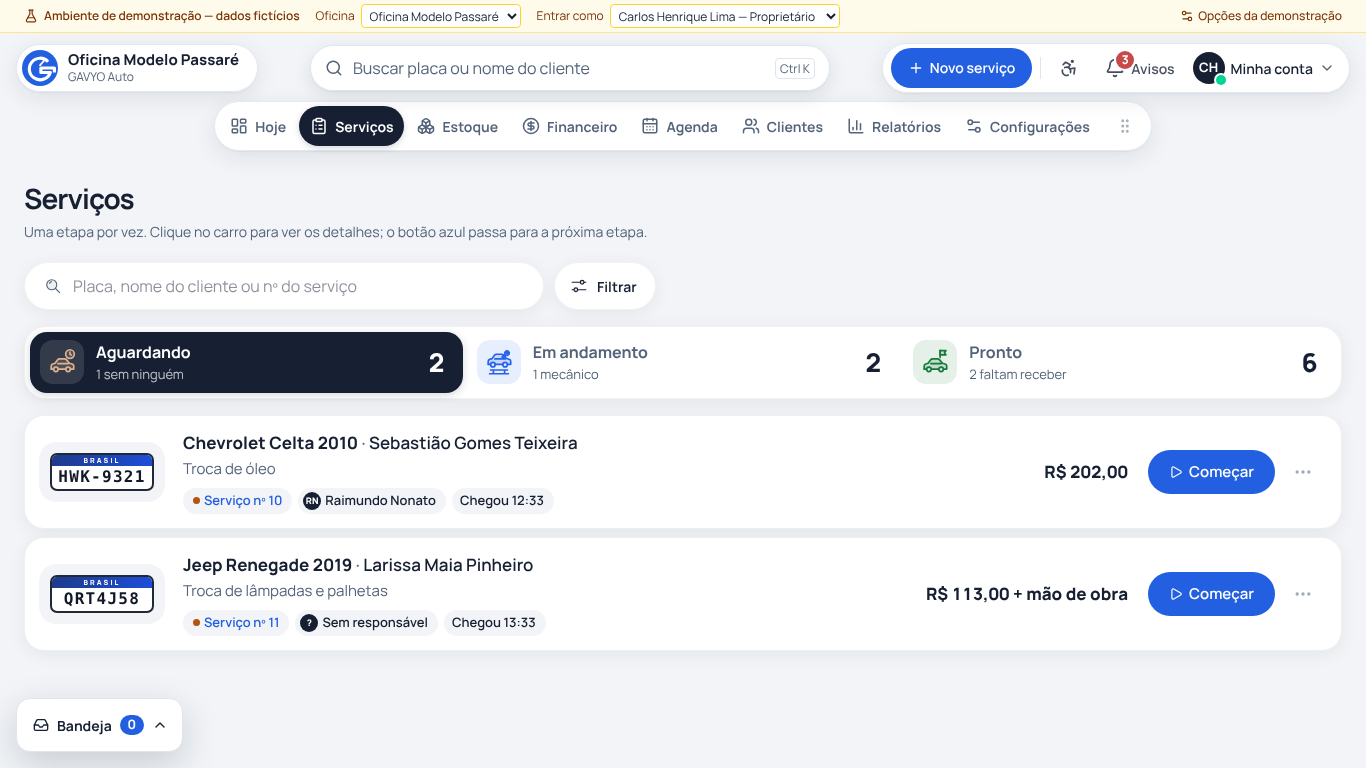
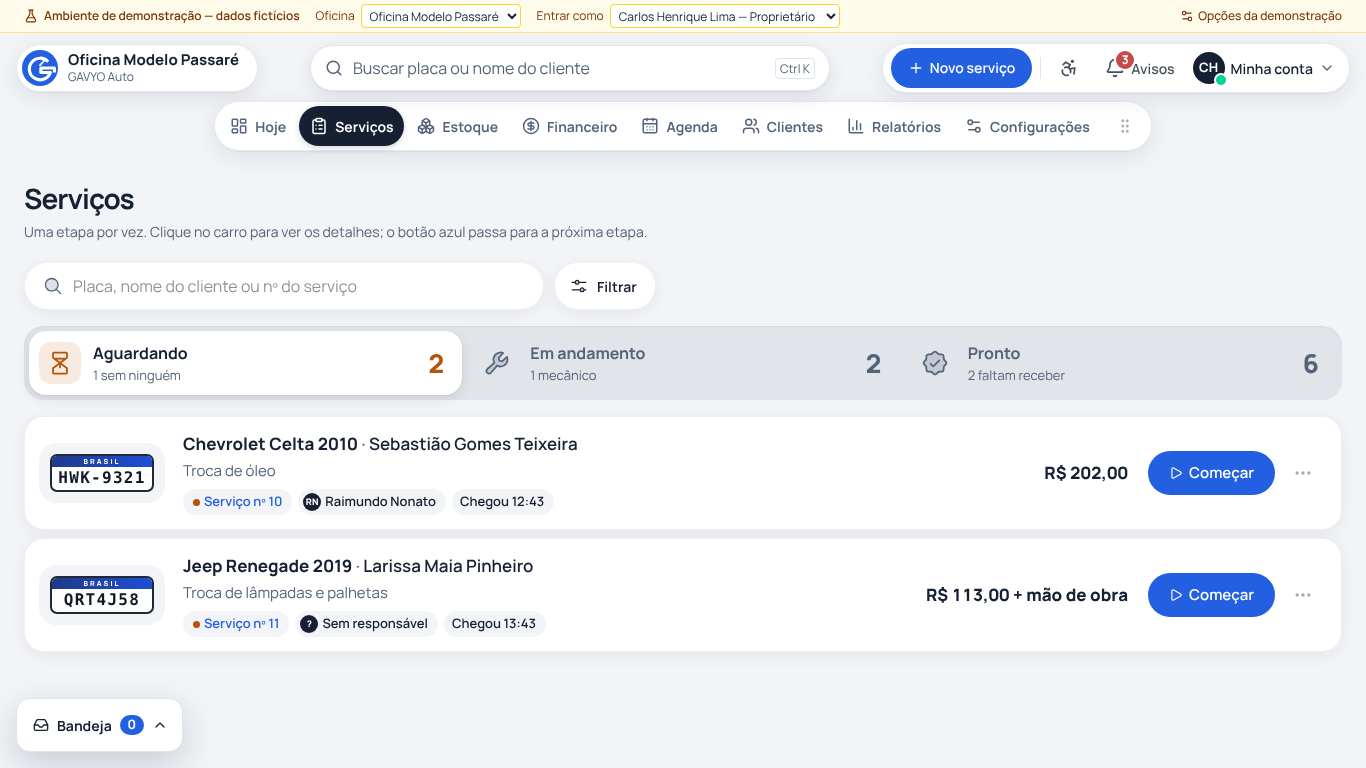
style: abas de etapa estilo iPhone e ícones Phosphor duotone
Aba escolhida branca e elevada sobre trilho cinza, número e ícone na cor
da etapa (no lugar da pílula escura). Ícones desenhados à mão trocados por
Phosphor duotone, escolha do usuário.

Claude-Session: https://claude.ai/code/session_015xcccMtBZyPoUvGxoauYP3

diff --git a/src/features/orders/orders-page.tsx b/src/features/orders/orders-page.tsx
@@ -8,7 +8,7 @@ import {
   CollisionDetection, DndContext, DragEndEvent, pointerWithin, rectIntersection, DragOverlay, DragStartEvent, KeyboardSensor, PointerSensor, useDraggable, useDroppable, useSensor, useSensors,
 } from "@dnd-kit/core";
 import { ArrowRight, Check, CheckSquare, ClipboardList, ExternalLink, GripVertical, Inbox, SearchX, UserCheck } from "lucide-react";
-import { IconCarLift, IconCarReady, IconCarWaiting, IconSearch, IconTune } from "@/components/ui/shop-icons";
+import { HourglassMedium, MagnifyingGlass, SealCheck, SlidersHorizontal, Wrench } from "@phosphor-icons/react";
 import { createContext, useContext, useEffect, useMemo, useState } from "react";
 import { useApp } from "@/app-state/app-context";
 import { Dialog } from "@/components/ui/dialog";
@@ -161,10 +161,10 @@ function sinceDay(at: string): string {
   return d === today ? "hoje" : d === addDays(today, -1) ? "ontem" : `em ${formatDate(d).slice(0, 5)}`;
 }
 
-const STAGE_META: Record<OrderStatus, { label: string; empty: string; emptyText: string; icon: typeof IconCarWaiting }> = {
-  waiting: { label: "Aguardando", empty: "Nenhum carro esperando", emptyText: "Quando um carro chegar, ele entra aqui até alguém começar.", icon: IconCarWaiting },
-  in_progress: { label: "Em andamento", empty: "Nenhum carro sendo feito", emptyText: "Clique em Começar num carro de Aguardando.", icon: IconCarLift },
-  done: { label: "Pronto", empty: "Nenhum carro pronto", emptyText: "Quando terminar um serviço, clique em Marcar como pronto.", icon: IconCarReady },
+const STAGE_META: Record<OrderStatus, { label: string; empty: string; emptyText: string; icon: typeof Wrench }> = {
+  waiting: { label: "Aguardando", empty: "Nenhum carro esperando", emptyText: "Quando um carro chegar, ele entra aqui até alguém começar.", icon: HourglassMedium },
+  in_progress: { label: "Em andamento", empty: "Nenhum carro sendo feito", emptyText: "Clique em Começar num carro de Aguardando.", icon: Wrench },
+  done: { label: "Pronto", empty: "Nenhum carro pronto", emptyText: "Quando terminar um serviço, clique em Marcar como pronto.", icon: SealCheck },
 };
 
 /** Aba grande de etapa (controle segmentado, à la Apple). Também recebe cartões arrastados. */
@@ -186,7 +186,7 @@ function StageTab({ status, count, sub, active, onSelect, onKey }: { status: Ord
       onClick={onSelect}
       onKeyDown={onKey}
     >
-      <span className="stage-tab-icon" aria-hidden><Icon /></span>
+      <span className="stage-tab-icon" aria-hidden><Icon weight="duotone" /></span>
       <span className="stage-tab-text">
         <span className="stage-tab-label">{STAGE_META[status].label}</span>
         <span className="stage-tab-sub">{sub}</span>
@@ -200,7 +200,7 @@ function StageEmpty({ status, filtered }: { status: OrderStatus; filtered: boole
   const Icon = STAGE_META[status].icon;
   return (
     <div className="stage-empty" data-stage={status}>
-      <span className="stage-empty-art" aria-hidden><Icon /></span>
+      <span className="stage-empty-art" aria-hidden><Icon weight="duotone" /></span>
       <p className="stage-empty-title">{filtered ? "Nada encontrado nesta etapa" : STAGE_META[status].empty}</p>
       <p className="stage-empty-text">{filtered ? "Confira a busca ou os filtros." : STAGE_META[status].emptyText}</p>
     </div>
@@ -361,13 +361,13 @@ export function OrdersPage() {
 
       <div className="svc-toolbar">
         <label className="svc-search" data-tour="search-page">
-          <IconSearch className="size-5" aria-hidden />
+          <MagnifyingGlass size={20} weight="duotone" aria-hidden />
           <span className="sr-only">Buscar serviços</span>
           <input type="search" value={search} onChange={(e) => setSearch(e.target.value)} placeholder="Placa, nome do cliente ou nº do serviço" />
         </label>
         <details className="svc-filter">
           <summary>
-            <IconTune className="size-5" aria-hidden />Filtrar
+            <SlidersHorizontal size={20} weight="duotone" aria-hidden />Filtrar
             {(mechanic || period !== "all") && <span className="svc-filter-on">{[mechanic === "none" ? "Sem responsável" : mechanics.find((m) => m.id === mechanic)?.name.split(" ")[0], PERIODS.find((p) => p.value === period && p.value !== "all")?.label].filter(Boolean).join(" · ")}</span>}
           </summary>
           <div className="svc-filter-body">

diff --git a/src/app/globals.css b/src/app/globals.css
@@ -1867,3 +1867,20 @@ html[data-motion="reduce"] .stage-tab.just-got, html[data-motion="reduce"] .svc-
   .svc-stage .svc-open .mini-plate { margin: 8px; box-shadow: 0 0 0 8px var(--bg); }
   .svc-chip { height: 24px; }
 }
+
+/* Abas de etapa = controle segmentado do iPhone (escolha do usuário): trilho cinza,
+   aba escolhida branca e elevada, número e ícone na cor da etapa. Ícones Phosphor duotone. */
+.svc-stage .stage-tabs { padding: 5px; border: 0; border-radius: 20px; background: color-mix(in srgb, var(--muted) 11%, var(--bg)); box-shadow: inset 0 1px 2px rgb(23 32 51 / 6%); }
+.svc-stage .stage-tab { min-height: 64px; color: var(--muted); }
+.svc-stage .stage-tab:hover { background: rgb(255 255 255 / 45%); color: var(--text); }
+.svc-stage .stage-tab[aria-selected="true"] { background: var(--surface); color: var(--text); box-shadow: 0 1px 2px rgb(23 32 51 / 8%), 0 4px 14px rgb(23 32 51 / 9%); }
+.svc-stage .stage-tab-icon { width: 42px; height: 42px; border-radius: 12px; background: transparent; color: var(--muted); transition: background-color 200ms, color 200ms; }
+.svc-stage .stage-tab-icon svg { width: 28px; height: 28px; }
+.svc-stage .stage-tab[aria-selected="true"] .stage-tab-icon { background: color-mix(in srgb, var(--st) 12%, var(--surface)); color: var(--st); }
+.svc-stage .stage-tab[aria-selected="true"] .stage-tab-label { color: var(--text); }
+.svc-stage .stage-tab[aria-selected="true"] .stage-tab-sub { color: var(--muted); }
+.svc-stage .stage-tab-count { color: var(--muted); }
+.svc-stage .stage-tab[aria-selected="true"] .stage-tab-count { color: var(--st); }
+.svc-stage .stage-tab:hover .stage-tab-count { color: var(--text); }
+.svc-stage .stage-tab[aria-selected="true"]:hover .stage-tab-count { color: var(--st); }
+.svc-stage .stage-empty-art svg { width: 40px; height: 40px; }

diff --git a/docs/DECISOES.md b/docs/DECISOES.md
@@ -60,4 +60,4 @@
 | 56 | **Novo serviço passo a passo** (auditoria leiga F1, F4, F5, F8) | Escolhas do usuário: janela com progresso, tom de conversa, grande e espaçoso. Uma pergunta por vez (GOV.UK "one thing per page"; cadastros Nubank/iFood); placa desenhada reconhece carro e dono e pula passos; marca, serviço e mecânico por toque em vez de lista suspensa; opcionais em "Mais detalhes"; mão de obra por escolha (Ainda não sei / Já sei / Não vai cobrar) no lugar de "em branco = a definir"; prévia do cartão que vai nascer no quadro. Mesmas regras e mesmo `createOrder` de antes. Mais cliques (≈11 contra 2), mas cada um é um toque óbvio e só 4 campos digitados (antes 6). |
 | 57 | **Formulários com escolhas em botões** (auditoria leiga F2, F3, F6) | Listas suspensas com poucas opções viraram botões grandes (`ChoiceGroup`, rádios por baixo): mecânico, categoria de despesa e de peça, tipo de movimento do estoque, "Já recebeu?", função e acesso do funcionário, mão de obra (Já sei / Ainda não sei / Não vai cobrar, no lugar de "em branco = a definir"). Data e hora por atalhos (Hoje, Amanhã, dias; Ontem e anteriores para o que já aconteceu) e horários em botões; calendário só em "Outro dia". Opcionais em "Mais detalhes (opcional): …", dizendo o que tem dentro. Lista suspensa mantida só para listas longas (cliente, novo dono do carro). Peças do serviço: busca + linhas com "Adicionar". Código da peça vazio é gerado sozinho; motivo vazio na entrada/saída recebe um padrão ("Peça chegou"). Nas janelas, a pergunta do campo tem o mesmo peso da pergunta das escolhas. Mesmas regras e serviços de antes. |
 | 58 | **Hoje vira o pátio** (auditoria leiga G1 + rabiscos do usuário: "mecânico vai ver isso e não vai entender nada", "um mecânico precisa disso?", "tem nada aí") | Os carros que estão na oficina ficam no topo, em linhas largas agrupadas pelo caminho do carro (Esperando começar → Sendo feito → Pronto, esperando o cliente), com a placa desenhada como âncora visual e um botão por carro; "Quem falta pagar" virou o grupo Pronto (o valor e o Receber ficam na linha do carro). Removidos os 4 cartões coloridos de números (padrão genérico de painel), a tabela com filtros (repetia o quadro), a atividade recente e o cartão de estoque (virou uma linha). Quem chega hoje vai para a coluna ao lado. Mecânico vê só os carros dele, sem dinheiro. "Sendo feito" usa azul fixo porque a cor da oficina pode ser verde e confundir com Pronto; além da cor há texto do grupo e os tracinhos do caminho. As skills "impeccable" e "ui-ux-pro-max" pedidas não estão instaladas na sessão na nuvem; os princípios delas e o contrato em `.impeccable/` (placa e número como âncoras, próxima ação em cada serviço) guiaram a decisão. |
-| 59 | **Serviços: uma tela por etapa, em vidro** (pedido do usuário com desenho: "o kanban está muito poluído… uma tela pra em andamento, uma pra aguardando e outra pra pronto"; depois "quero algo como o estilo glass") | As 3 colunas viraram 3 abas grandes (controle segmentado à la iOS/macOS: ícone, nome, uma frase — "1 sem ninguém", "2 faltam receber" — e o número grande). Cada aba mostra os carros em linhas largas (placa desenhada, carro · cliente, serviço, nº, responsável, há quanto tempo; valor e um botão). Pronto se divide em "Falta receber" e "Pagos e entregues" (6 primeiros + Mostrar mais). Fila em ordem de chegada; prontos do mais recente. Ao avançar a etapa, a linha voa até a aba seguinte, que pula com o número novo (como mover e-mail para pasta no Apple Mail). Arrastar continua como atalho: solta-se o carro na aba (WCAG 2.5.7: o botão faz o mesmo). Busca + "Filtrar" recolhido (período em botões, responsáveis, cancelados) no lugar da faixa de responsáveis e do select de período (auditoria G7). A aba escolhida fica salva por usuário; serviço recém-aberto abre a sua aba para o "nascimento". Visual: um vidro translúcido foi testado e o usuário achou exagerado ("quero algo parecido com a nav"); ficou a linguagem da ilha de navegação: superfície branca, borda fina, sombra leve, aba ativa em pílula escura (como o item ativo do menu), cor da etapa só como pontinho e no ícone. Cartões inspirados na lista de viagens do Airbnb e nos pedidos da Apple Store: a placa como "foto" sobre fundo cinza, título forte, linha de apoio, etiquetas cinza (nº, mecânico com iniciais, tempo) e um botão em pílula igual ao "Novo serviço". Ícones próprios da oficina no lugar dos genéricos (`src/components/ui/shop-icons.tsx`): carro com relógio (Aguardando), carro no elevador (Em andamento), carro com bandeirinha (Pronto), lupa e régua de ajuste — traço 1.8 + mancha de cor suave. Referências: Apple Mail/Lembretes, controle segmentado do iOS, Airbnb, Apple Store, Linear. |
+| 59 | **Serviços: uma tela por etapa, em vidro** (pedido do usuário com desenho: "o kanban está muito poluído… uma tela pra em andamento, uma pra aguardando e outra pra pronto"; depois "quero algo como o estilo glass") | As 3 colunas viraram 3 abas grandes (controle segmentado à la iOS/macOS: ícone, nome, uma frase — "1 sem ninguém", "2 faltam receber" — e o número grande). Cada aba mostra os carros em linhas largas (placa desenhada, carro · cliente, serviço, nº, responsável, há quanto tempo; valor e um botão). Pronto se divide em "Falta receber" e "Pagos e entregues" (6 primeiros + Mostrar mais). Fila em ordem de chegada; prontos do mais recente. Ao avançar a etapa, a linha voa até a aba seguinte, que pula com o número novo (como mover e-mail para pasta no Apple Mail). Arrastar continua como atalho: solta-se o carro na aba (WCAG 2.5.7: o botão faz o mesmo). Busca + "Filtrar" recolhido (período em botões, responsáveis, cancelados) no lugar da faixa de responsáveis e do select de período (auditoria G7). A aba escolhida fica salva por usuário; serviço recém-aberto abre a sua aba para o "nascimento". Visual: um vidro translúcido foi testado e o usuário achou exagerado ("quero algo parecido com a nav"); ficou a linguagem da ilha de navegação: superfície branca, borda fina, sombra leve, aba ativa no estilo do controle segmentado do iPhone (trilho cinza, aba escolhida branca e elevada, número e ícone na cor da etapa — a pílula escura foi testada e o usuário não gostou), cor da etapa só como pontinho e no ícone. Cartões inspirados na lista de viagens do Airbnb e nos pedidos da Apple Store: a placa como "foto" sobre fundo cinza, título forte, linha de apoio, etiquetas cinza (nº, mecânico com iniciais, tempo) e um botão em pílula igual ao "Novo serviço". Ícones: os genéricos e depois carrinhos desenhados à mão foram reprovados; o usuário escolheu uma biblioteca refinada — **Phosphor, peso duotone** (`@phosphor-icons/react`): ampulheta (Aguardando), chave inglesa (Em andamento), selo de concluído (Pronto), lupa e régua de ajuste. Usar Phosphor duotone nos próximos redesenhos. Referências: Apple Mail/Lembretes, controle segmentado do iOS, Airbnb, Apple Store, Linear. |

diff --git a/docs/INTERFACE.md b/docs/INTERFACE.md
@@ -64,7 +64,7 @@ Decisão 59. No lugar das três colunas, **três abas grandes**: **Aguardando ·
 - Ao clicar no botão, a linha **voa até a aba** da próxima etapa e a aba pula com o número novo.
 - **Busca** e **Filtrar** (aberto quando, quem está fazendo, ver cancelados). Se a busca achar o carro em outra etapa: "Achamos 1 em Pronto →".
 - Atalhos que continuam: arrastar (pela alça que aparece ao passar o mouse) e soltar numa aba ou num responsável; selecionar vários (caixinha, X, Ctrl/⌘+clique); bandeja.
-- Aba ativa em pílula escura, como o item ativo do menu. Ícones próprios da oficina: carro com relógio, carro no elevador, carro com bandeirinha.
+- Abas como o controle segmentado do iPhone: trilho cinza, aba escolhida branca e elevada, número na cor da etapa. Ícones Phosphor duotone: ampulheta, chave inglesa, selo de concluído.
 
 ![Serviços — Aguardando](imagens/interface/servicos-aguardando.png)
 ![Serviços — Pronto](imagens/interface/servicos-pronto.png)

diff --git a/docs/ESTADO-ATUAL.md b/docs/ESTADO-ATUAL.md
@@ -27,7 +27,7 @@
 | `294afa4` | Auditoria leiga ([AUDITORIA-LEIGO-20261118.md](AUDITORIA-LEIGO-20261118.md)) item 1 — **Novo serviço passo a passo** |
 | `64badb4` | Item 2 — **formulários com escolhas em botões**, dia/hora por atalhos, opcionais em "Mais detalhes" (decisão 57) |
 | `52c95ef` | Item 3 — **Hoje vira o pátio**: carros por etapa com placa desenhada e um botão; mecânico só vê os carros dele (decisão 58) |
-| (18/11) | **Serviços: uma tela por etapa** (estilo da navegação, ícones próprios) — abas Aguardando / Em andamento / Pronto no lugar do quadro de colunas (decisão 59) |
+| (18/11) | **Serviços: uma tela por etapa** (estilo da navegação, abas estilo iPhone, ícones Phosphor duotone) — abas Aguardando / Em andamento / Pronto no lugar do quadro de colunas (decisão 59) |
 
 ### Validação vigente
 
